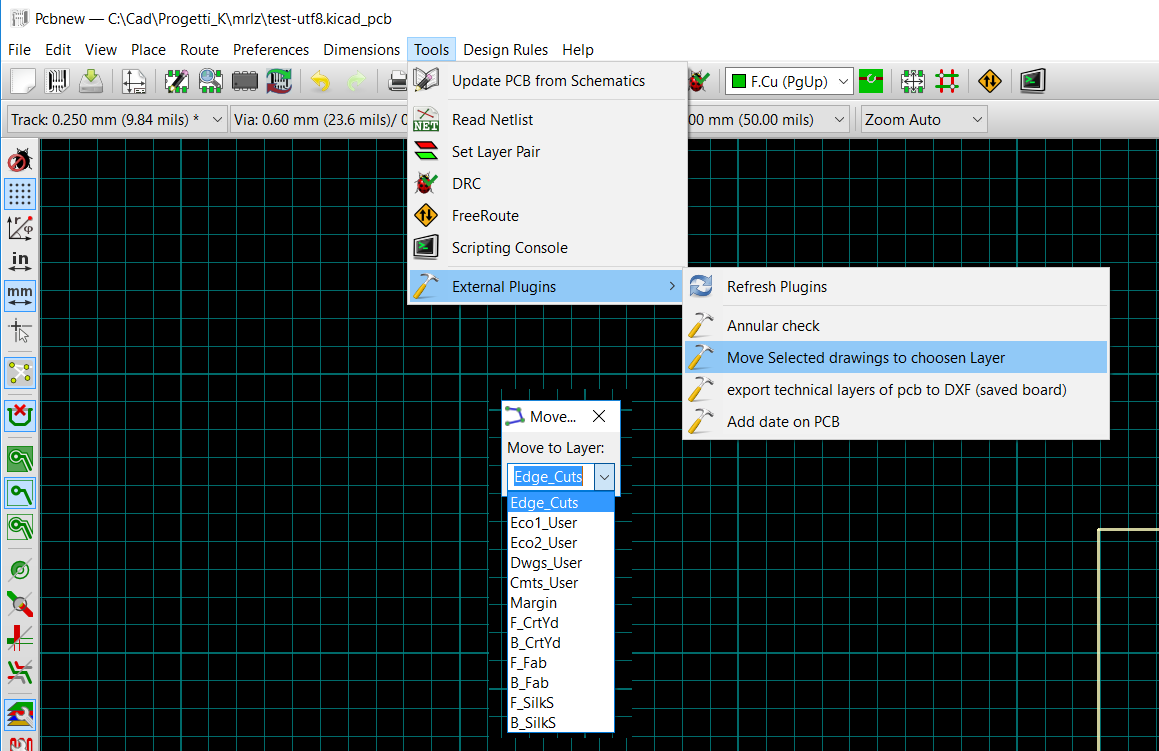
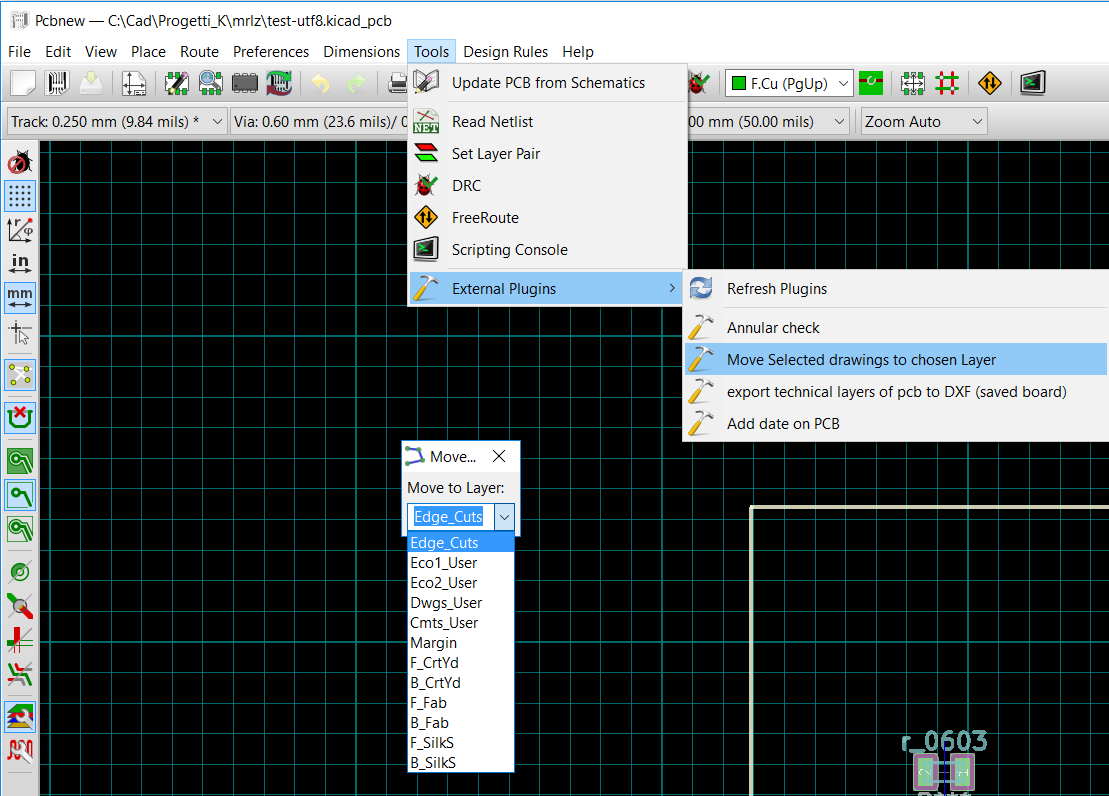
small refinements

diff --git a/action_menu_move_to_layer.py b/action_menu_move_to_layer.py
@@ -29,7 +29,7 @@ ___version___="1.1.0"
 
 class move_to_draw_layer( pcbnew.ActionPlugin ):
     """
-    A script to Move Selected Drawing(s) to choosen new Layer (available only in GAL) 
+    A script to Move Selected Drawing(s) to chosen new Layer (available only in GAL) 
     How to use:
     - move to GAL
     - select some draw objects
@@ -46,9 +46,9 @@ class move_to_draw_layer( pcbnew.ActionPlugin ):
         self.description should be a comprehensive description
           of the plugin
         """
-        self.name = "Move Selected drawings to choosen Layer"
+        self.name = "Move Selected drawings to chosen Layer"
         self.category = "Modify Drawing PCB"
-        self.description = "Move Selected drawings to choosen Layer on an existing PCB"
+        self.description = "Move Selected drawings to chosen Layer on an existing PCB"
 
     def Run( self ):
         found_selected=False

diff --git a/README.md b/README.md
@@ -10,7 +10,7 @@ A script to export technical layers of kicad PCB to DXF
 DXF generated file has single line draw as it should be for mechanical interchange (this option is missing in pcbnew plot)  
   
 - ### action_menu_move_to_layer
-A script to Move Selected Drawing(s) to choosen new Layer (available only in GAL) 
+A script to Move Selected Drawing(s) to chosen new Layer (available only in GAL) 
   
 ---
 ## action_menu_annular_check.py
@@ -64,12 +64,12 @@ done:
 
 ---
 ## action_menu_move_to_layer
-A script to Move Selected Drawing(s) to choosen new Layer (available only in GAL) 
+A script to Move Selected Drawing(s) to chosen new Layer (available only in GAL) 
 
 requirements: KiCAD pcbnew > 4.0 built with KICAD_SCRIPTING_ACTION_MENU option activated  
 release "1.1.0"  
 
-    A script to Move Selected Drawing(s) to choosen new Layer (available only in GAL) 
+    A script to Move Selected Drawing(s) to chosen new Layer (available only in GAL) 
     How to use:
     - move to GAL
     - select some draw objects
@@ -77,5 +77,5 @@ release "1.1.0"
     - select the new layer
     - selected draw objects will be moved to new layer
 
-Launch the 'Move Selected drawings to choosen Layer' script in pcbnew from Tools menu  
-![Move Selected drawings to choosen Layer](screenshots/move_to_layer.png)
+Launch the 'Move Selected drawings to chosen Layer' script in pcbnew from Tools menu  
+![Move Selected drawings to chosen Layer](screenshots/move_to_layer.png)
